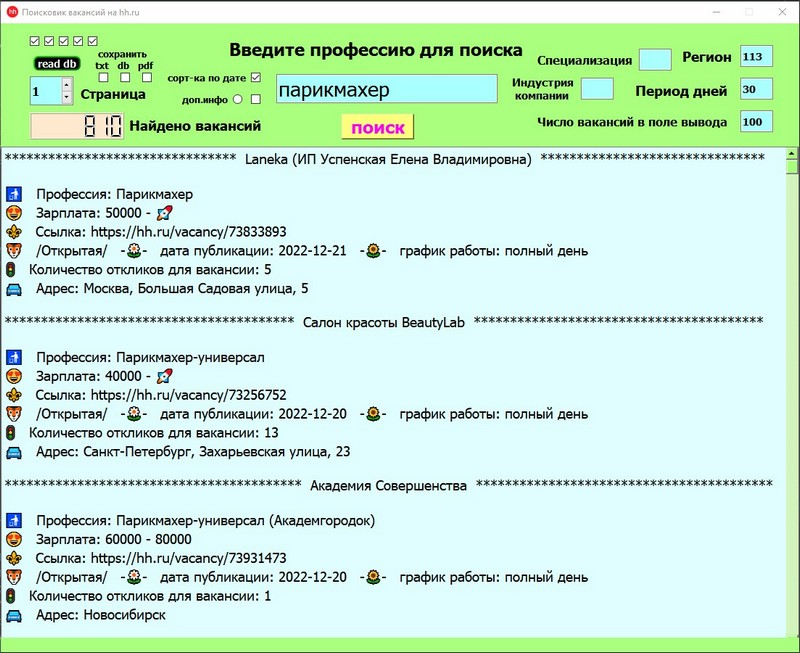
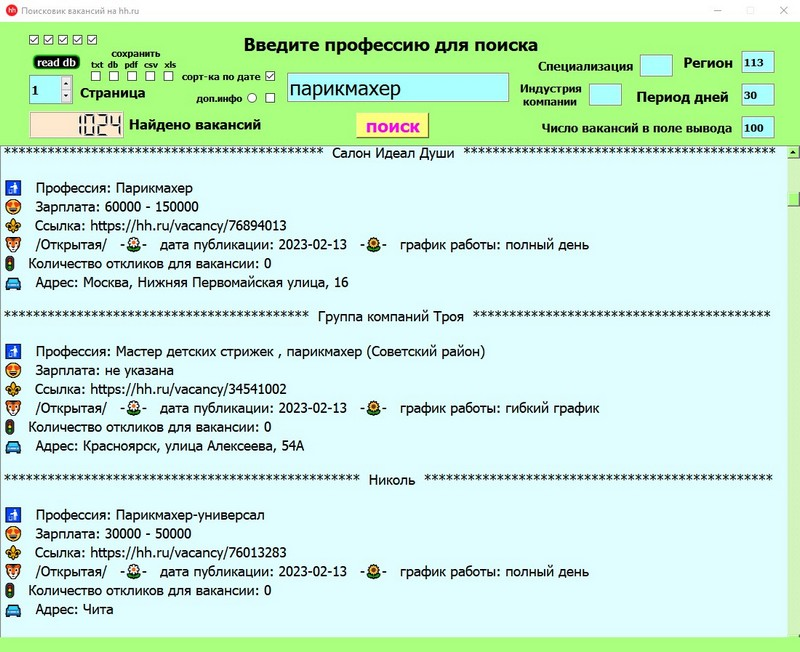
add xls

Changed region(s): [[0.0, 0.0, 1.0, 1.0]]

diff --git a/gui.py b/gui.py
@@ -16,7 +16,7 @@ class UiMainWindow(object):
         self.centralwidget.setObjectName("central_widget")
         self.pushButton = QtWidgets.QPushButton(self.centralwidget)
         # self.pushButton.setIcon(QtGui.QIcon(QtGui.QPixmap('search.png')))
-        self.pushButton.setGeometry(QtCore.QRect(470, 125, 100, 35))
+        self.pushButton.setGeometry(QtCore.QRect(490, 125, 100, 35))
         self.pushButton.setCursor(QtGui.QCursor(QtCore.Qt.UpArrowCursor))
         font = QtGui.QFont()
         font.setPixelSize(24)
@@ -26,7 +26,7 @@ class UiMainWindow(object):
                                       "background-color: rgb(255, 255, 127);")
         self.pushButton.setObjectName("pushButton")
         self.label = QtWidgets.QLabel(self.centralwidget)
-        self.label.setGeometry(QtCore.QRect(315, 20, 470, 31))
+        self.label.setGeometry(QtCore.QRect(335, 15, 490, 30))
         self.label.setFont(font)
         self.label.setObjectName("label")
         self.pushButton_2 = QtWidgets.QPushButton(self.centralwidget)
@@ -46,22 +46,22 @@ class UiMainWindow(object):
         self.label_2.setFont(font)
         self.label_2.setObjectName("label_2")
         self.label_3 = QtWidgets.QLabel(self.centralwidget)
-        self.label_3.setGeometry(QtCore.QRect(740, 35, 190, 30))
+        self.label_3.setGeometry(QtCore.QRect(740, 45, 190, 30))
         font.setPixelSize(16)
         self.label_3.setFont(font)
         self.label_3.setObjectName("label_3")
         self.label_4 = QtWidgets.QLabel(self.centralwidget)
-        self.label_4.setGeometry(QtCore.QRect(940, 30, 150, 30))
+        self.label_4.setGeometry(QtCore.QRect(940, 40, 150, 30))
         font.setPixelSize(19)
         self.label_4.setFont(font)
         self.label_4.setObjectName("label_4")
         self.label_5 = QtWidgets.QLabel(self.centralwidget)
-        self.label_5.setGeometry(QtCore.QRect(740, 120, 265, 30))
+        self.label_5.setGeometry(QtCore.QRect(745, 130, 265, 30))
         font.setPixelSize(16)
         self.label_5.setFont(font)
         self.label_5.setObjectName("label_5")
         self.label_6 = QtWidgets.QLabel(self.centralwidget)
-        self.label_6.setGeometry(QtCore.QRect(875, 77, 265, 30))
+        self.label_6.setGeometry(QtCore.QRect(875, 87, 265, 30))
         font.setPixelSize(19)
         self.label_6.setFont(font)
         self.label_6.setObjectName("label_6")
@@ -71,23 +71,29 @@ class UiMainWindow(object):
         self.label_7.setFont(font)
         self.label_7.setObjectName("label_7")
         self.label_8 = QtWidgets.QLabel(self.centralwidget)
-        self.label_8.setGeometry(QtCore.QRect(250, 90, 80, 30))
+        self.label_8.setGeometry(QtCore.QRect(270, 90, 80, 30))
         font.setPixelSize(13)
         self.label_8.setFont(font)
         self.label_8.setObjectName("label_8")
         self.label_9 = QtWidgets.QLabel(self.centralwidget)
-        self.label_9.setGeometry(QtCore.QRect(230, 60, 120, 30))
+        self.label_9.setGeometry(QtCore.QRect(250, 60, 120, 30))
         self.label_9.setFont(font)
         self.label_9.setObjectName("label_9")
         self.label_10 = QtWidgets.QLabel(self.centralwidget)
-        self.label_10.setGeometry(QtCore.QRect(125, 32, 110, 35))
+        self.label_10.setGeometry(QtCore.QRect(125, 52, 120, 13))
+        font.setPixelSize(11)
         self.label_10.setFont(font)
-        self.label_10.setObjectName("label_11")
+        self.label_10.setObjectName("label_10")
         self.label_11 = QtWidgets.QLabel(self.centralwidget)
-        self.label_11.setGeometry(QtCore.QRect(705, 70, 85, 40))
-        font.setPixelSize(15)
+        self.label_11.setGeometry(QtCore.QRect(153, 35, 70, 15))
+        font.setPixelSize(13)
         self.label_11.setFont(font)
-        self.label_11.setObjectName("label_10")
+        self.label_11.setObjectName("label_11")
+        self.label_12 = QtWidgets.QLabel(self.centralwidget)
+        self.label_12.setGeometry(QtCore.QRect(715, 80, 85, 40))
+        font.setPixelSize(15)
+        self.label_12.setFont(font)
+        self.label_12.setObjectName("label_12")
         self.lcdNumber = QtWidgets.QLCDNumber(self.centralwidget)
         self.lcdNumber.setGeometry(QtCore.QRect(40, 123, 130, 37))
         font.setPixelSize(32)
@@ -96,7 +102,7 @@ class UiMainWindow(object):
         self.lcdNumber.setDigitCount(7)
         self.lcdNumber.setObjectName("lcdNumber")
         self.lineEdit = QtWidgets.QLineEdit(self.centralwidget)
-        self.lineEdit.setGeometry(QtCore.QRect(380, 70, 305, 40))
+        self.lineEdit.setGeometry(QtCore.QRect(395, 70, 305, 40))
         font = QtGui.QFont()
         font.setPixelSize(28)
         self.lineEdit.setFont(font)
@@ -105,7 +111,7 @@ class UiMainWindow(object):
         self.lineEdit.setText('DevOps')
         self.lineEdit.setToolTip(definition_search)
         self.lineEdit_2 = QtWidgets.QLineEdit(self.centralwidget)
-        self.lineEdit_2.setGeometry(QtCore.QRect(1020, 30, 45, 30))
+        self.lineEdit_2.setGeometry(QtCore.QRect(1020, 40, 45, 30))
         font = QtGui.QFont()
         font.setPixelSize(14)
         font.setBold(True)
@@ -116,7 +122,7 @@ class UiMainWindow(object):
         self.lineEdit_2.setValidator(QtGui.QIntValidator(0, 10000, main_window))
         self.lineEdit_2.setToolTip(region)
         self.lineEdit_3 = QtWidgets.QLineEdit(self.centralwidget)
-        self.lineEdit_3.setGeometry(QtCore.QRect(880, 35, 45, 30))
+        self.lineEdit_3.setGeometry(QtCore.QRect(880, 45, 45, 30))
         self.lineEdit_3.setFont(font)
         self.lineEdit_3.setStyleSheet("background-color: rgb(170, 255, 255);")
         self.lineEdit_3.setObjectName("lineEdit_3")
@@ -124,7 +130,7 @@ class UiMainWindow(object):
         self.lineEdit_3.setValidator(QtGui.QIntValidator(0, 1000, main_window))
         self.lineEdit_3.setToolTip(categories)
         self.lineEdit_4 = QtWidgets.QLineEdit(self.centralwidget)
-        self.lineEdit_4.setGeometry(QtCore.QRect(1020, 120, 45, 30))
+        self.lineEdit_4.setGeometry(QtCore.QRect(1020, 130, 45, 30))
         self.lineEdit_4.setFont(font)
         self.lineEdit_4.setStyleSheet("background-color: rgb(170, 255, 255);")
         self.lineEdit_4.setObjectName("lineEdit_4")
@@ -132,7 +138,7 @@ class UiMainWindow(object):
         self.lineEdit_4.setValidator(QtGui.QIntValidator(0, 100, main_window))
         self.lineEdit_4.setToolTip(definition_field)
         self.lineEdit_5 = QtWidgets.QLineEdit(self.centralwidget)
-        self.lineEdit_5.setGeometry(QtCore.QRect(1020, 75, 45, 30))
+        self.lineEdit_5.setGeometry(QtCore.QRect(1020, 85, 45, 30))
         self.lineEdit_5.setFont(font)
         self.lineEdit_5.setStyleSheet("background-color: rgb(170, 255, 255);")
         self.lineEdit_5.setObjectName("lineEdit_5")
@@ -140,7 +146,7 @@ class UiMainWindow(object):
         self.lineEdit_5.setValidator(QtGui.QIntValidator(0, 30, main_window))
         self.lineEdit_5.setToolTip(definition_days)
         self.lineEdit_6 = QtWidgets.QLineEdit(self.centralwidget)
-        self.lineEdit_6.setGeometry(QtCore.QRect(800, 75, 45, 30))
+        self.lineEdit_6.setGeometry(QtCore.QRect(810, 85, 45, 30))
         self.lineEdit_6.setFont(font)
         self.lineEdit_6.setStyleSheet("background-color: rgb(170, 255, 255);")
         self.lineEdit_6.setObjectName("lineEdit_6")
@@ -156,29 +162,29 @@ class UiMainWindow(object):
         self.spinBox.setMaximum(999)
         self.spinBox.setObjectName("spinBox")
         self.radioButton = QtWidgets.QRadioButton(self.centralwidget)
-        self.radioButton.setGeometry(QtCore.QRect(320, 85, 30, 40))
+        self.radioButton.setGeometry(QtCore.QRect(340, 85, 30, 40))
         self.radioButton.setCursor(QtGui.QCursor(QtCore.Qt.UpArrowCursor))
         self.radioButton.setChecked(False)
         self.checkbox = QtWidgets.QCheckBox(self.centralwidget)
-        self.checkbox.setGeometry(QtCore.QRect(345, 95, 20, 20))
+        self.checkbox.setGeometry(QtCore.QRect(365, 95, 20, 20))
         self.checkbox.setCursor(QtGui.QCursor(QtCore.Qt.UpArrowCursor))
         self.checkbox.setChecked(False)
         self.checkbox_2 = QtWidgets.QCheckBox(self.centralwidget)
-        self.checkbox_2.setGeometry(QtCore.QRect(345, 65, 20, 20))
+        self.checkbox_2.setGeometry(QtCore.QRect(365, 65, 20, 20))
         self.checkbox_2.setCursor(QtGui.QCursor(QtCore.Qt.UpArrowCursor))
         self.checkbox_2.setChecked(False)
         self.checkbox_3 = QtWidgets.QCheckBox(self.centralwidget)
-        self.checkbox_3.setGeometry(QtCore.QRect(130, 65, 20, 20))
+        self.checkbox_3.setGeometry(QtCore.QRect(125, 65, 20, 20))
         self.checkbox_3.setCursor(QtGui.QCursor(QtCore.Qt.UpArrowCursor))
         self.checkbox_3.setChecked(False)
         self.checkbox_3.setToolTip(definition_txt)
         self.checkbox_4 = QtWidgets.QCheckBox(self.centralwidget)
-        self.checkbox_4.setGeometry(QtCore.QRect(155, 65, 20, 20))
+        self.checkbox_4.setGeometry(QtCore.QRect(150, 65, 20, 20))
         self.checkbox_4.setCursor(QtGui.QCursor(QtCore.Qt.UpArrowCursor))
         self.checkbox_4.setChecked(False)
         self.checkbox_4.setToolTip(definition_db)
         self.checkbox_5 = QtWidgets.QCheckBox(self.centralwidget)
-        self.checkbox_5.setGeometry(QtCore.QRect(180, 65, 20, 20))
+        self.checkbox_5.setGeometry(QtCore.QRect(175, 65, 20, 20))
         self.checkbox_5.setCursor(QtGui.QCursor(QtCore.Qt.UpArrowCursor))
         self.checkbox_5.setChecked(False)
         self.checkbox_5.setToolTip(definition_pdf)
@@ -208,10 +214,15 @@ class UiMainWindow(object):
         self.checkbox_10.setChecked(True)
         self.checkbox_10.setToolTip(definition_flexible)
         self.checkbox_11 = QtWidgets.QCheckBox(self.centralwidget)
-        self.checkbox_11.setGeometry(QtCore.QRect(205, 65, 20, 20))
+        self.checkbox_11.setGeometry(QtCore.QRect(200, 65, 20, 20))
         self.checkbox_11.setCursor(QtGui.QCursor(QtCore.Qt.UpArrowCursor))
         self.checkbox_11.setChecked(False)
         self.checkbox_11.setToolTip(definition_csv)
+        self.checkbox_12 = QtWidgets.QCheckBox(self.centralwidget)
+        self.checkbox_12.setGeometry(QtCore.QRect(225, 65, 20, 20))
+        self.checkbox_12.setCursor(QtGui.QCursor(QtCore.Qt.UpArrowCursor))
+        self.checkbox_12.setChecked(False)
+        self.checkbox_12.setToolTip(definition_xls)
         self.textBrowser = QtWidgets.QTextBrowser(self.centralwidget)
         self.textBrowser.setGeometry(QtCore.QRect(0, 170, 1101, 691))
         font = QtGui.QFont()
@@ -239,5 +250,6 @@ class UiMainWindow(object):
         self.label_7.setText("Страница")
         self.label_8.setText("доп.инфо")
         self.label_9.setText("сорт-ка по дате")
-        self.label_10.setText("     сохранить\ntxt  db  pdf  csv")
-        self.label_11.setText("Индустрия\n компании")
+        self.label_10.setText("txt  db   pdf   csv   xls")
+        self.label_11.setText("сохранить")
+        self.label_12.setText("Индустрия\n компании")

diff --git a/parser.py b/parser.py
@@ -4,6 +4,7 @@ from database import Database
 from PyQt5 import QtWidgets
 from gui import UiMainWindow
 from write_csv import save_to_csv
+from write_xls import save_to_xls
 
 
 class MyWin(QtWidgets.QMainWindow, Database):
@@ -117,7 +118,7 @@ class MyWin(QtWidgets.QMainWindow, Database):
         if self.ui.checkbox_4.isChecked():
             self.drop_database()
             self.initialize_database()
-        save_csv = []
+        save_csv, save_xls = [], []
 
         try:
             print('Headhunter: парсинг страницы')
@@ -193,6 +194,9 @@ class MyWin(QtWidgets.QMainWindow, Database):
                         salary_to = salary['to'] if isinstance(salary['to'], int) else '*'
                         save_csv.append([company, name, salary_from, salary_to, link, types,
                                          date, schedule.lower(), counters_responses, address])
+                    if self.ui.checkbox_12.isChecked():
+                        save_xls.append([company, name, from_salary, to_salary, link, types,
+                                         date, schedule.lower(), counters_responses, address])
                 else:
                     output = (f'  {company}  '.center(107, '*') + f'\n\n🚮   Профессия: {name}\n😍'
                               f'   Зарплата: не указана\n⚜   Ссылка: {link}\n🐯   /{types}/'
@@ -208,14 +212,19 @@ class MyWin(QtWidgets.QMainWindow, Database):
                         self.insert_database(company, name, 'не указана', 'не указана', link,
                                              types, date, schedule.lower(), counters_responses,
                                              address)
-                    if self.ui.checkbox_11.isChecked():
+                    if self.ui.checkbox_11.isChecked() or self.ui.checkbox_12.isChecked():
                         save_csv.append([company, name, 'не указана', 'не указана', link, types,
+                                         date, schedule.lower(), counters_responses, address])
+                    if self.ui.checkbox_12.isChecked():
+                        save_xls.append([company, name, 'не указана', 'не указана', link, types,
                                          date, schedule.lower(), counters_responses, address])
                 # self.ui.textBrowser.append("<a name=\"scroll\" href=\"\">۩</a>")
             if self.ui.checkbox_3.isChecked():
                 text.close()
             if self.ui.checkbox_11.isChecked():
                 save_to_csv(save_csv)
+            if self.ui.checkbox_12.isChecked():
+                save_to_xls(save_xls)
             self.ui.textBrowser.scrollToAnchor("scroll")
             if self.ui.checkbox_5.isChecked():
                 from PyQt5 import QtGui

diff --git a/write_xls.py b/write_xls.py
@@ -1,0 +1,20 @@
+import openpyxl
+
+
+def save_to_xls(data):
+    """ Создание xlsx файла и запись в него """
+    book = openpyxl.Workbook()
+    book.remove(book.active)
+    sheet = book.create_sheet("Вакансии")
+    sheet.column_dimensions["A"].width = 40
+    sheet.column_dimensions["B"].width = 50
+    sheet.column_dimensions["C"].width = 10
+    sheet.column_dimensions["D"].width = 10
+    sheet.column_dimensions["E"].width = 30
+    sheet.column_dimensions["F"].width = 13
+    sheet.column_dimensions["G"].width = 13
+    sheet.column_dimensions["H"].width = 18
+    sheet.column_dimensions["I"].width = 5
+    sheet.column_dimensions["J"].width = 50
+    [sheet.append(i) for i in data]
+    book.save("_vacancies.xlsx")

diff --git a/information.py b/information.py
@@ -143,6 +143,9 @@ definition_txt = """
 definition_csv = """
 Сохранить в формате csv
 """
+definition_xls = """
+Сохранить в формате xls
+"""
 definition_fullDay = """
 Полный день
 """
